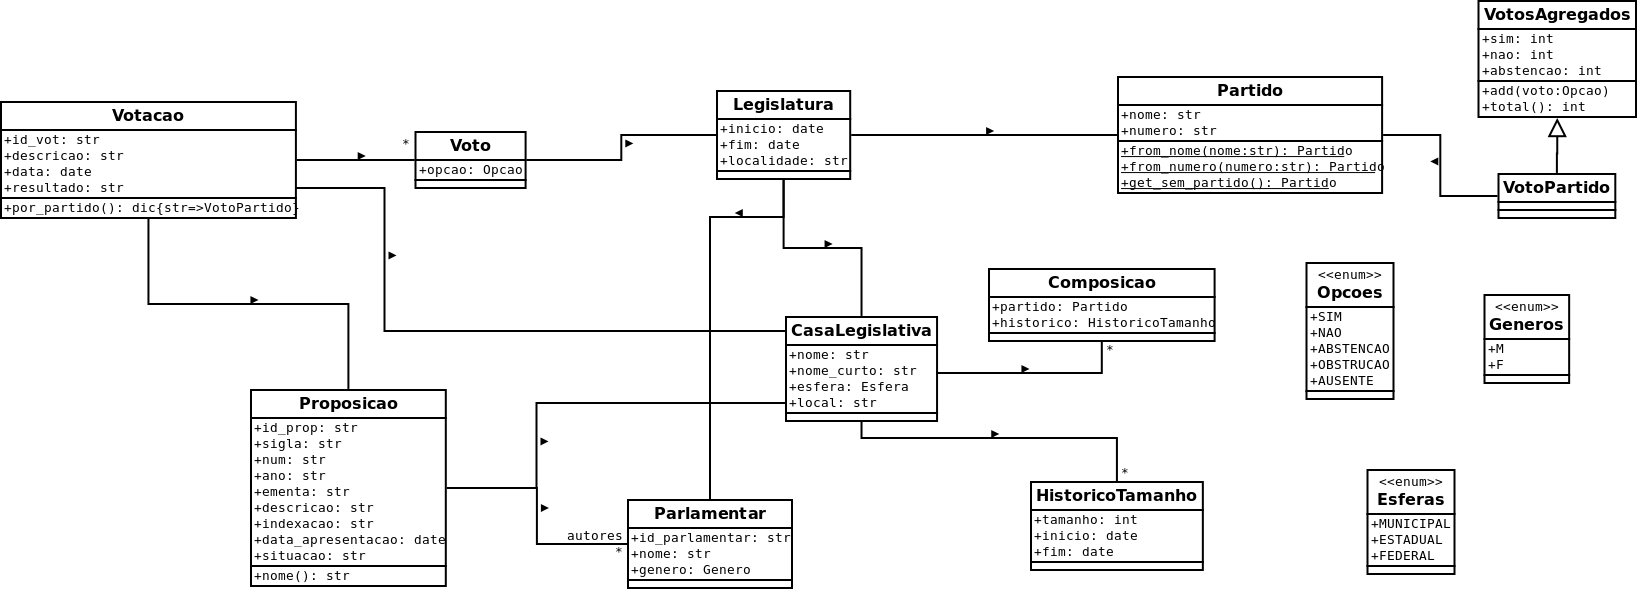
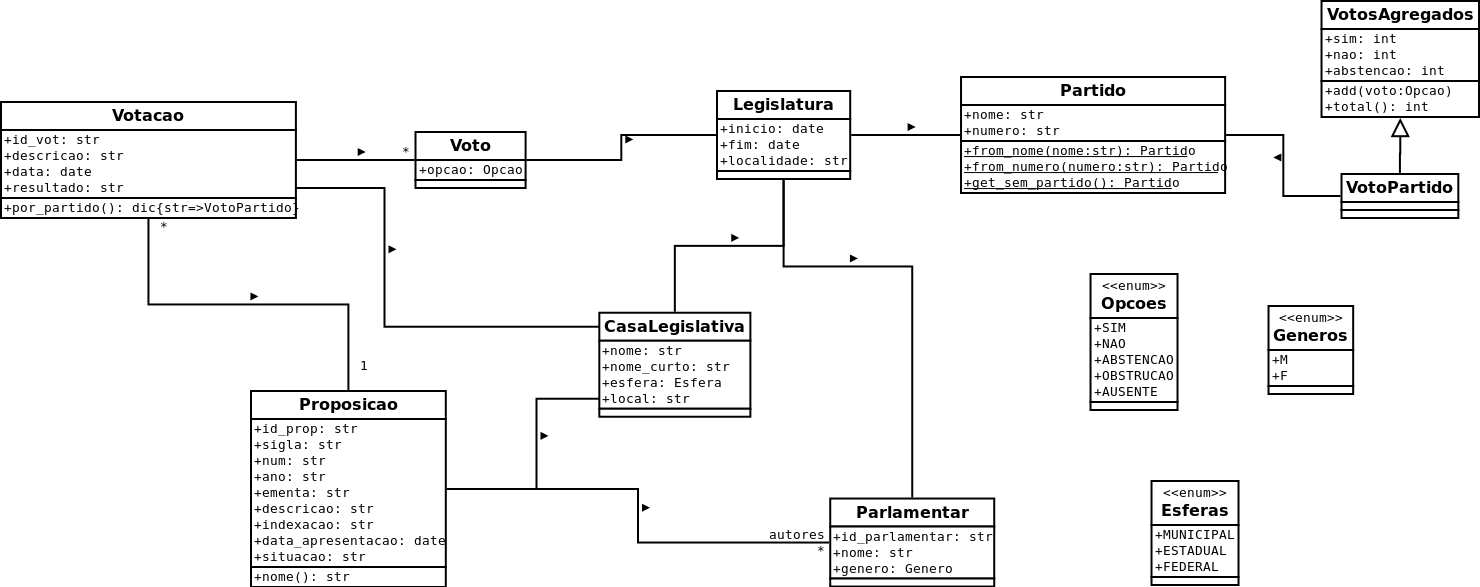
Atributos tamanhos e composicoes eliminados de CasaLegislativa
Com isso também foram eliminadas as classes desses atributos Composicao e HistoricoTamanho.
Essas classes adicionavam complexidade ao modelo e não estavam sendo usadas em lugar algum.
Além disso, essas propriedades podem ser calculadas a partir de outros valores no banco.
De qualquer forma, se for melhor ter esses atributos mais tarde, aí colocamos eles.

diff --git a/radar_parlamentar/modelagem/models.py b/radar_parlamentar/modelagem/models.py
@@ -110,21 +110,6 @@ class Partido(models.Model):
     def __unicode__(self):
         return '%s-%s' % (self.nome, self.numero)
 
-
-class HistoricoTamanho(models.Model):
-
-    tamanho = models.IntegerField()
-    inicio = models.DateField(blank=True)
-    fim = models.DateField(blank=True)
-
-
-class Composicao(models.Model):
-    """Participação de um partido na casa"""
-
-    partido = models.ForeignKey(Partido)
-    historico = models.ManyToManyField(HistoricoTamanho)
-
-
 class CasaLegislativa(models.Model):
     """Instituição tipo Senado, Câmara etc
 
@@ -133,16 +118,12 @@ class CasaLegislativa(models.Model):
         nome_curto -- string; será usado pra gerar links. ex 'cmsp' para 'Câmara Municipal de São Paulo' 
         esfera -- string (municipal, estadual, federal)
         local -- string; ex 'São Paulo' para a CMSP
-        tamanhos -- lista de objetos do tipo HistoricoTamanho representando quantas cadeiras possui a casa
-        composicao -- lista de objetos do tipo Composicao
     """
 
     nome = models.CharField(max_length=100)
     nome_curto = models.CharField(max_length=50, unique=True)
     esfera = models.CharField(max_length=10, choices=ESFERAS)
     local = models.CharField(max_length=100)
-    tamanhos = models.ManyToManyField(HistoricoTamanho, null=True)
-    composicoes = models.ManyToManyField(Composicao, null=True)
 
     def __unicode__(self):
         return self.nome
@@ -310,15 +291,15 @@ class VotosAgregados:
             OBSTRUCAO e AUSENTE contam como um voto ABSTENCAO
         """
         if (voto == SIM):
-          self.sim += 1
+            self.sim += 1
         if (voto == NAO):
-          self.nao += 1
+            self.nao += 1
         if (voto == ABSTENCAO):
-          self.abstencao += 1
+            self.abstencao += 1
         if (voto == OBSTRUCAO):
-          self.abstencao += 1
+            self.abstencao += 1
         if (voto == AUSENTE):
-          self.abstencao += 1
+            self.abstencao += 1
 
     def total(self):
         return self.sim + self.nao + self.abstencao
